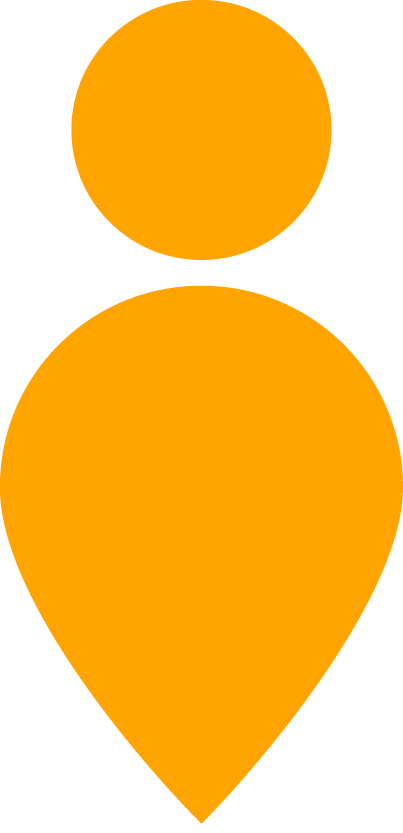
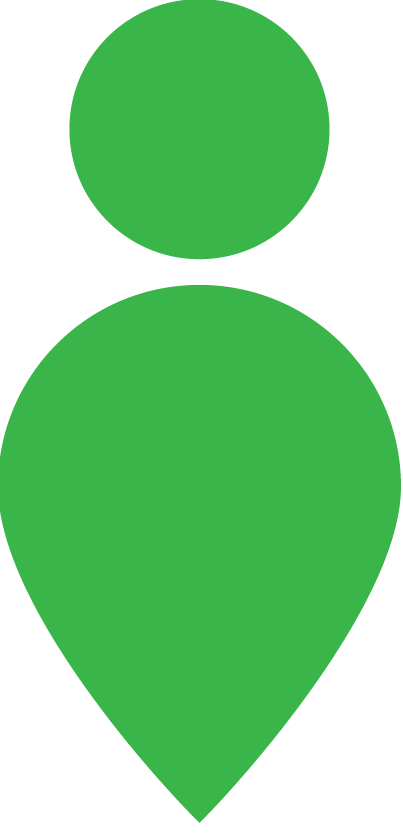
able to save languages, filter pins and corrected pin colors for pins and categories

diff --git a/NeuLynx/MapVC.m b/NeuLynx/MapVC.m
@@ -61,6 +61,9 @@
 
 //MAP
 @property CustomMKAnnotation *pinAnnotation;
+
+//Profile Image
+@property UIImage *profileImage;
 @end
 
 @implementation MapVC
@@ -73,7 +76,8 @@
 
     [self performInitialSetup]; //do initial set up for MapVC
 
-    [self setUpProfileImage];
+
+
     [self createAndDisplayBlinkingRings];
 
 
@@ -81,11 +85,13 @@
 
 
 -(void)viewDidAppear:(BOOL)animated{
+    
     [self setUpProfileImage];
+
 }
 -(void)viewWillAppear:(BOOL)animated{
 
-
+     [self setUpProfileImage];
 
     [self addAnimation:self.ring1ImageView andTo:self.ring2ImageView];
 
@@ -110,6 +116,10 @@
 
 -(void)performInitialSetup{
 
+
+    //set up profile image
+     [self setUpProfileImage];
+    
     self.locationManager = [CLLocationManager new];
     self.locationManager.delegate = self;
     self.locationManager.distanceFilter = kCLDistanceFilterNone;
@@ -162,6 +172,10 @@
 
         UIStoryboard *tutorialStoryboard = [UIStoryboard storyboardWithName:@"Tutorial" bundle:nil];
         UITabBarController *tutorialNavVC = [tutorialStoryboard instantiateViewControllerWithIdentifier:@"tutorialNavVC"];
+//        if (self.currentUser != nil) {
+//            self.tempImage = [UIImage imageNamed:@"defaultImage.png"];
+//        }
+
         [self presentViewController:tutorialNavVC animated:true completion:nil];
 
     }
@@ -507,9 +521,12 @@
 //helper method to set up profile image button
 -(void)setUpProfileImage{
 
+  //  self.tempImage = [UIImage new];
+
 
     if (self.currentUser != nil){
     //create an image and assign it to defualt image
+
 
 
     [self.currentUser.profileImage getDataInBackgroundWithBlock:^(NSData *data, NSError *error) {
@@ -521,7 +538,9 @@
         }
 
     }];
-    }else{
+        //self.tempImage = [self getUsersProfileImage];
+
+    }else if (self.currentUser == nil){
 
         self.tempImage = [UIImage imageNamed:@"defaultImage.png"];
     }
@@ -565,6 +584,25 @@
 
 
 }
+
+//Helper method to download user's profile image
+-(UIImage *)getUsersProfileImage{
+    UIImage *image = [UIImage new];
+    self.profileImage = [UIImage new];
+
+    [self.currentUser.profileImage getDataInBackgroundWithBlock:^(NSData *data, NSError *error) {
+        if (!error) {
+            UIImage *tempImage = [UIImage imageWithData:data];
+            self.profileImage = tempImage;
+        }
+
+    }];
+
+    image = self.profileImage;
+
+    return image;
+}
+
 //helper method to show user's profile.
 
 -(void)profileImageTapped:(UIBarButtonItem* )sender{
@@ -652,42 +690,15 @@
                     // NSLog(@"%@", self.fitnessActivityArray);
 
                     //
-                   // [self.mapView addAnnotation:self.pinAnnotation];
+                   [self.mapView addAnnotation:self.pinAnnotation];
                     
                 }
-                
-                
-                
+
 
                 //[self.mapView addAnnotations:self.gastronomyActivityArray];
 
                 
             });
-
-            //check each array to make sure that is not 0 and if it's not zero go ahead and the annotation to the map.
-            if (self.festivalActivityArray.count != 0) {
-
-                 [self.mapView addAnnotations:self.festivalActivityArray];
-
-            } else if(self.festivalActivityArray.count != 0) {
-
-                [self.mapView addAnnotations:self.culturalActivityArray];
-
-            }else if(self.festivalActivityArray.count != 0) {
-                [self.mapView addAnnotations:self.gastronomyActivityArray];
-
-            }else if(self.festivalActivityArray.count != 0) {
-                [self.mapView addAnnotations:self.nightOutActivityArray];
-
-            }else if(self.festivalActivityArray.count != 0) {
-                [self.mapView addAnnotations:self.fitnessActivityArray];
-
-            }else if(self.festivalActivityArray.count != 0) {
-                [self.mapView addAnnotations:self.outDoorsActivityArray];
-
-            }
-
-
 
 
             
@@ -696,8 +707,12 @@
             
             
         }
-        
+
+
     }
+
+
+
 
      ];
     //once we have the array with activity, we need to ad them to the map.
@@ -712,7 +727,7 @@
 
    // NSLog(@"%@", self.gastronomyActivityArray);
 
-    [self.mapView addAnnotations:self.gastronomyActivityArray];
+
 }
 
 ////////////////////ALERT HELPER METHODS/////////////////////////////////
@@ -921,27 +936,34 @@
 
 
         if ([pinAnnotation.activity.selectedCategory isEqualToString:@"Cultural"]) {
+
             UIImage *image = [UIImage imageNamed:@"culturalPin.png"];
-
-
             annotationView.image =  [self resizeImageForPins:image];
 
 
 
         }else if([pinAnnotation.activity.selectedCategory isEqualToString:@"Gastronomy"]){
+
             UIImage *image = [UIImage imageNamed:@"gastronomyPin.png"];
             annotationView.image =  [self resizeImageForPins:image];
 
         }else if([pinAnnotation.activity.selectedCategory isEqualToString:@"Night Out"]){
+
             UIImage *image = [UIImage imageNamed:@"nightOutPin.png"];
             annotationView.image =  [self resizeImageForPins:image];
+
         }else if([pinAnnotation.activity.selectedCategory isEqualToString:@"Festival"]){
+
             UIImage *image = [UIImage imageNamed:@"festivalPin.png"];
             annotationView.image =  [self resizeImageForPins:image];
+
         }else if([pinAnnotation.activity.selectedCategory isEqualToString:@"Fitness"]){
+
             UIImage *image = [UIImage imageNamed:@"fitnessPin.png"];
             annotationView.image =  [self resizeImageForPins:image];
+
         }else if([pinAnnotation.activity.selectedCategory isEqualToString:@"Outdoors"]){
+            
             UIImage *image = [UIImage imageNamed:@"outdoorsPin.png"];
             annotationView.image =  [self resizeImageForPins:image];
         }

diff --git a/NeuLynx/PostActivityVC.m b/NeuLynx/PostActivityVC.m
@@ -94,12 +94,19 @@
     [self dismissViewControllerAnimated:YES completion:nil]; 
 
 }
-//- (IBAction)onPostButtonTapped:(UIBarButtonItem *)sender {
-//
-//
-//
-//}
+
 - (IBAction)onPostButtonTapped:(UIBarButtonItem *)sender {
+
+    NSString *textFieldError  = @"";
+
+    //if any of the fields are blank, then we show the user an error - all fields are required.
+    if ([self.activityTitle.text isEqualToString:@""] || [self.activityDescription.text isEqualToString:@""] || [self.activityAddress.text isEqualToString:@""] || [self.activityMaxHeadCount.text isEqualToString:@""] || [self.activityStartTime.text isEqualToString:@""] || [self.activityEndTime.text isEqualToString:@""]) {
+        textFieldError = @"Error in Form - All fields are required.";
+
+    }
+
+    if ([textFieldError isEqualToString:@""]) {
+
 
     self.activity.activityTitle =  self.activityTitle.text;
     self.activity.activityDescription = self.activityDescription.text;
@@ -142,6 +149,9 @@
             [self displayErrorMessage:error.description];
         }
     }];
+    } else{
+        [self displayErrorMessage:textFieldError];
+    }
 }
 
 //*******Enable and show the secondary view with date picker.******//
@@ -202,24 +212,7 @@
 }
 
 ///************Select Category***************//
-- (IBAction)outDoorsButtonTapped:(UIButton *)sender {
-    self.selectedCategory = @"Outdoors";
-    self.outdoorsButton.alpha = 1.0;
-    self.gastronomyButton.alpha = 0.5;
-    self.festivalButton.alpha = 0.5;
-    self.nightOutButton.alpha = 0.5;
-    self.culturalButton.alpha = 0.5;
-    self.fitnessButton.alpha = 0.5;
-}
-- (IBAction)gastronomyButtonTapped:(UIButton *)sender {
-    self.selectedCategory = @"Gastronomy";
-    self.outdoorsButton.alpha = 0.5;
-    self.gastronomyButton.alpha = 1.0;
-    self.festivalButton.alpha = 0.5;
-    self.nightOutButton.alpha = 0.5;
-    self.culturalButton.alpha = 0.5;
-    self.fitnessButton.alpha = 0.5;
-}
+
 
 - (IBAction)onFestivalButtonTapped:(UIButton *)sender {
     self.selectedCategory = @"Festival";
@@ -231,15 +224,7 @@
     self.fitnessButton.alpha = 0.5;
 
 }
-- (IBAction)onNightOutButtonTapped:(UIButton *)sender {
-    self.selectedCategory = @"Night Out";
-    self.outdoorsButton.alpha = 0.5;
-    self.gastronomyButton.alpha = 0.5;
-    self.festivalButton.alpha = 0.5;
-    self.nightOutButton.alpha = 1.0;
-    self.culturalButton.alpha = 0.5;
-    self.fitnessButton.alpha = 0.5;
-}
+
 - (IBAction)onCulturalButtonTapped:(UIButton *)sender {
     self.selectedCategory = @"Cultural";
     self.outdoorsButton.alpha = 0.5;
@@ -249,6 +234,25 @@
     self.culturalButton.alpha = 1.0;
     self.fitnessButton.alpha = 0.5;
 }
+- (IBAction)gastronomyButtonTapped:(UIButton *)sender {
+    self.selectedCategory = @"Gastronomy";
+    self.outdoorsButton.alpha = 0.5;
+    self.gastronomyButton.alpha = 1.0;
+    self.festivalButton.alpha = 0.5;
+    self.nightOutButton.alpha = 0.5;
+    self.culturalButton.alpha = 0.5;
+    self.fitnessButton.alpha = 0.5;
+}
+- (IBAction)onNightOutButtonTapped:(UIButton *)sender {
+    self.selectedCategory = @"Night Out";
+    self.outdoorsButton.alpha = 0.5;
+    self.gastronomyButton.alpha = 0.5;
+    self.festivalButton.alpha = 0.5;
+    self.nightOutButton.alpha = 1.0;
+    self.culturalButton.alpha = 0.5;
+    self.fitnessButton.alpha = 0.5;
+}
+
 - (IBAction)onFitnessButtonTapped:(UIButton *)sender {
     self.selectedCategory = @"Fitness";
     self.outdoorsButton.alpha = 0.5;
@@ -257,6 +261,15 @@
     self.nightOutButton.alpha = 0.5;
     self.culturalButton.alpha = 0.5;
     self.fitnessButton.alpha = 1.0;
+}
+- (IBAction)outDoorsButtonTapped:(UIButton *)sender {
+    self.selectedCategory = @"Outdoors";
+    self.outdoorsButton.alpha = 1.0;
+    self.gastronomyButton.alpha = 0.5;
+    self.festivalButton.alpha = 0.5;
+    self.nightOutButton.alpha = 0.5;
+    self.culturalButton.alpha = 0.5;
+    self.fitnessButton.alpha = 0.5;
 }
 
 - (IBAction)onPickFirstImageButtonTapped:(UIButton *)sender {

diff --git a/NeuLynx/ProfileVC.m b/NeuLynx/ProfileVC.m
@@ -96,9 +96,7 @@
     //disable age textfield
     self.ageTextField.enabled = NO;
     self.ageTextField.userInteractionEnabled = NO;
-    // Initializing languageArray
 
-    self.languageArray = [NSMutableArray new];
 
     //Dim the colors of language buttons
     self.portugueseButton.alpha = 0.5;
@@ -162,8 +160,11 @@
 
     }
 
+    // Initializing languageArray
+
+
     //get user's languages
-    self.languageArray = self.currentUser.languageArray.mutableCopy;
+    self.languageArray = [[NSMutableArray alloc] initWithArray:self.currentUser.languageArray.mutableCopy];
 
     for (int i = 0; i<self.languageArray.count; i++) {
         if ([self.languageArray[i] isEqualToString:@"Portuguese"]) {
@@ -381,7 +382,7 @@
 - (void)keyboardDidShow:(NSNotification *)notification
 {
     // Assign new frame to your view
-    [self.view setFrame:CGRectMake(0,-110,320,500)]; //here taken -20 for example i.e. your view will be scrolled to -20. change its value according to your requirement.
+    [self.view setFrame:CGRectMake(0,0,320,500)]; //here taken -20 for example i.e. your view will be scrolled to -20. change its value according to your requirement.
 
 }
 
